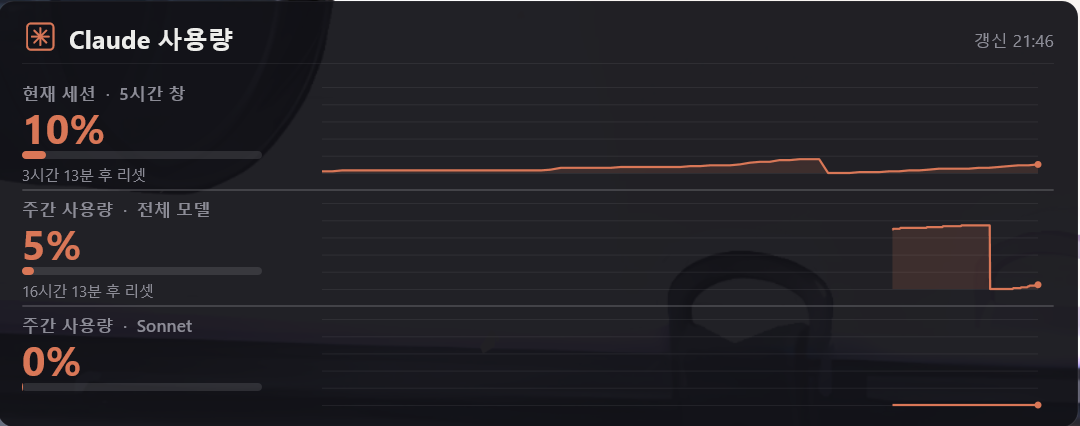
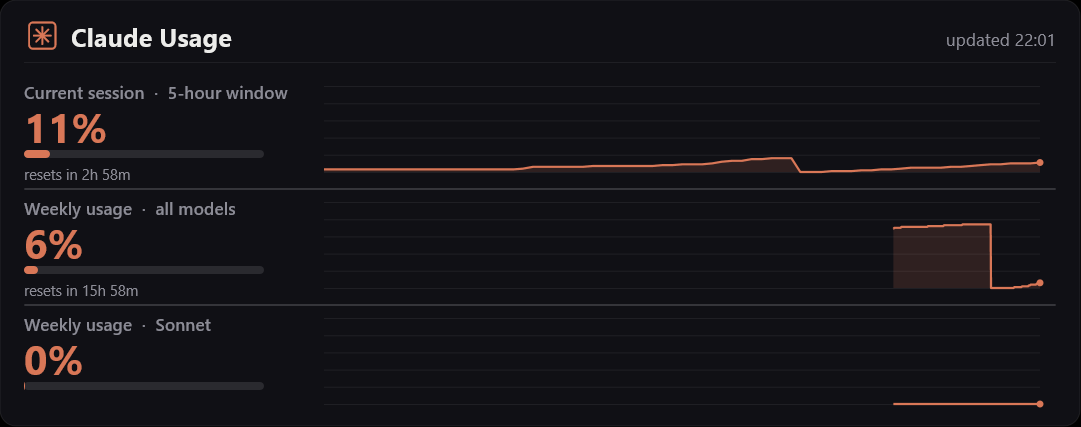
Translate widget UI to English
- ClaudeUsage: header, metric labels, reset countdowns, status notes
  ("Waiting…", "Token expired", "Data delayed"), context menu.
- ClaudeSessions: header stats, empty state, durations (h/m), tooltips,
  delete dialog. Old Korean-logged durations are translated on display.
- session-logger.js writes English entries going forward.
- English placeholder data.inc; README UI references + ClaudeUsage
  screenshot updated to English.

diff --git a/hooks/session-logger.js b/hooks/session-logger.js
@@ -103,16 +103,16 @@ function main() {
   let dur = '';
   if (start && !isNaN(start)) {
     const m = Math.max(0, Math.round((end - start) / 60000));
-    dur = m >= 60 ? ` (${Math.floor(m / 60)}시간 ${m % 60}분)` : ` (${m}분)`;
+    dur = m >= 60 ? ` (${Math.floor(m / 60)}h ${m % 60}m)` : ` (${m}m)`;
   }
   const cwd = input.cwd || (state && state.cwd) || '?';
 
   const entryLines = [
     `## ${start && !isNaN(start) ? fmt(start) : '????'} → ${fmt(end)}${dur} — \`${cwd}\``,
-    `**${title || '(제목 없음)'}**  ·  종료: ${input.reason || '?'} · 프롬프트 ${nPrompts}개 · \`${sid.slice(0, 8)}\``
+    `**${title || '(untitled)'}**  ·  exit: ${input.reason || '?'} · ${nPrompts} prompts · \`${sid.slice(0, 8)}\``
   ];
   for (const p of prompts) entryLines.push(`- ${p}`);
-  if (nPrompts > prompts.length) entryLines.push(`- … 외 ${nPrompts - prompts.length}개`);
+  if (nPrompts > prompts.length) entryLines.push(`- … +${nPrompts - prompts.length} more`);
   entryLines.push(`<!-- id:${sid} -->`); // 위젯 더블클릭 resume용 (마크다운에선 비표시)
   entryLines.push('');
 

diff --git a/README.md b/README.md
@@ -39,12 +39,12 @@ A scrollable list of your recent Claude Code sessions. Two pieces:
 
 ```
 ┌──────────────────────────────────────────────────────────────────────────┐
-│  ✳  Claude Code                                  오늘 7 · 전체 58          │
+│  ✳  Claude Code                                   Today 7 · Total 58       │
 │ ────────────────────────────────────────────────────────────────────────  │
-│  Rebuild entire pipeline from scratch          00:12 – 08:48 · 8시간 36분  │  ← title + time·duration
+│  Rebuild entire pipeline from scratch            00:12 – 08:48 · 8h 36m    │  ← title + time·duration
 │  C:\Users\you\Desktop\my-project                                           │  ← full working directory
 │                                                                            │
-│  Review report and plan next steps      06/11 22:05 → 06/12 00:11 · 2시간  │
+│  Review report and plan next steps        06/11 22:05 → 06/12 00:11 · 2h   │
 │  C:\Users\you\Desktop\another-project                                      │
 └──────────────────────────────────────────────────────────────────────────┘
 ```
@@ -127,9 +127,9 @@ The list fills in as you open/close sessions **after** the hook is installed (it
 
 Three usage gauges, updated every 5 minutes:
 
-- **현재 세션 · 5시간 창** — current 5‑hour session window
-- **주간 사용량 · 전체 모델** — 7‑day, all models
-- **주간 사용량 · Sonnet** — 7‑day, Sonnet
+- **Current session · 5-hour window** — the current 5‑hour session window
+- **Weekly usage · all models** — 7‑day, all models
+- **Weekly usage · Sonnet** — 7‑day, Sonnet
 
 Each shows a big percentage, a progress bar, a "resets in …" countdown, and a sparkline of usage over time. Colors shift from accent → amber (≥75%) → red (≥90%).
 
@@ -172,9 +172,9 @@ The poller is read‑only with respect to your credentials, never writes the tok
 
 ### Troubleshooting
 
-- **Stuck on "대기 중…"** — the poller hasn't produced data. Check Task Scheduler → `ClaudeUsageWidget` ran (Last Result `0`), `data/current.json` exists, and Node is installed (the launcher resolves `node` from `PATH`, falling back to `C:\Program Files\nodejs\node.exe`).
-- **"⚠ 토큰 만료"** — the stored token expired; run Claude Code once to refresh it (the widget never modifies the token itself).
-- **"⚠ 데이터 지연"** — no fresh data for >11 min; the task probably isn't running.
+- **Stuck on "Waiting…"** — the poller hasn't produced data. Check Task Scheduler → `ClaudeUsageWidget` ran (Last Result `0`), `data/current.json` exists, and Node is installed (the launcher resolves `node` from `PATH`, falling back to `C:\Program Files\nodejs\node.exe`).
+- **"⚠ Token expired"** — the stored token expired; run Claude Code once to refresh it (the widget never modifies the token itself).
+- **"⚠ Data delayed"** — no fresh data for >11 min; the task probably isn't running.
 - **Numbers differ slightly from claude.ai** — timing/rounding; the page is the source of truth.
 
 ---
@@ -247,7 +247,7 @@ Windows · [Rainmeter](https://www.rainmeter.net/) · [Node.js](https://nodejs.o
 3. 5분 폴링 작업 등록: `powershell -NoProfile -ExecutionPolicy Bypass -File scripts\setup-usage-task.ps1` (관리자 불필요). 제거: `Unregister-ScheduledTask -TaskName 'ClaudeUsageWidget' -Confirm:$false`.
 4. Rainmeter에서 로드. 첫 수집 후 ~30초 내 표시.
 
-**문제 해결:** "대기 중…"이 계속 → 작업 실행/`current.json`/Node 확인. "토큰 만료" → Claude Code 한 번 실행해 토큰 갱신. "데이터 지연" → 작업 미실행.
+**문제 해결:** "Waiting…"이 계속되면 → 예약 작업 실행 여부·`current.json`·Node 확인. "Token expired" → Claude Code 한 번 실행해 토큰 갱신. "Data delayed" → 작업 미실행.
 
 ### 설정
 - 색상/폭: 각 위젯 `.ini`의 `[Variables]`. 표시 개수: ClaudeSessions `parser.lua`의 `MAXROWS`(기본 8). 폴링 주기: ClaudeUsage 예약 작업.